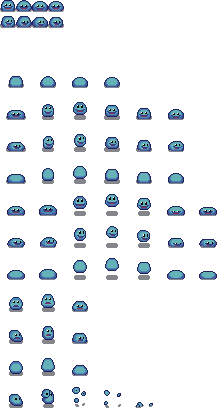
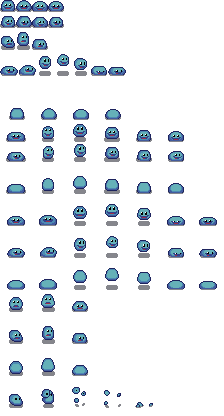
give damage slime

diff --git a/game/level/entity/slime.py b/game/level/entity/slime.py
@@ -1,6 +1,8 @@
+from game.level.attack import AttackArea
 from game.settings import *
 from game.math import points_dis
 from game.components import FollowableSprite
+from game.components.animation import AnimationEvent
 from game.level.entity import Entity
 from game.importer import import_named_animations, import_image
 
@@ -10,7 +12,7 @@ class Slimes(Enum):
 
 
 def build_slime_data(animations, start_animation_name, shadow_path, shadow_offset, attack_min_distance,
-                     attack_damage, speed, chasing_min_distance_to_change_direction):
+                     attack_damage, speed, health, chasing_min_distance_to_change_direction):
     return {
         "animations": animations,
         "start_animation_name": start_animation_name,
@@ -21,11 +23,19 @@ def build_slime_data(animations, start_animation_name, shadow_path, shadow_offse
         "attack_min_distance": attack_min_distance,
         "attack_damage": attack_damage,
         "speed": speed,
+        "health": health,
         "chasing_min_distance_to_change_direction": chasing_min_distance_to_change_direction
     }
 
 
 hash_slime_data = {}
+
+
+class SlimeAnimation(Enum):
+    IDLE = "idle"
+    WALKING = "walking"
+    ATTACKING = "attacking"
+    HURTING = "hurting"
 
 
 def get_slime_data(slime):
@@ -35,40 +45,46 @@ def get_slime_data(slime):
             hash_slime_data[slime] = build_slime_data(
                 animations=import_named_animations(
                     [
-                        (4, 1, "idle"),
-                        (4, 1, "walking"),
-                        # (4, 1, "attacking"),
+                        (4, 1, SlimeAnimation.IDLE, 4),
+                        (4, 1, SlimeAnimation.WALKING, 5),
+                        (7, 1, SlimeAnimation.ATTACKING, 6),
+                        (3, 1, SlimeAnimation.HURTING, 4),
                     ],
                     [
                         join('assets', 'characters', 'Slime', 'Slime-Idle.png'),
                         join('assets', 'characters', 'Slime', 'Slime-Walking.png'),
-                        # join('assets', 'characters', 'Slime', 'Slime-Attacking.png'),
+                        join('assets', 'characters', 'Slime', 'Slime-Attacking.png'),
+                        join('assets', 'characters', 'Slime', 'Slime-Hurting.png'),
                     ]
                 ),
-                start_animation_name="idle",
+                start_animation_name=SlimeAnimation.IDLE,
                 shadow_path=None,
                 shadow_offset=None,
-                speed=170,
+                speed=130,
+                health=5,
                 # ia
                 attack_damage=1,
                 attack_min_distance=40,
                 chasing_min_distance_to_change_direction=20,
             )
             # scale
-            hash_slime_data[slime]["animations"]["idle"].scale_frames(3)
-            hash_slime_data[slime]["animations"]["walking"].scale_frames(3)
+            hash_slime_data[slime]["animations"][SlimeAnimation.IDLE].scale_frames(3)
+            hash_slime_data[slime]["animations"][SlimeAnimation.WALKING].scale_frames(3)
+            hash_slime_data[slime]["animations"][SlimeAnimation.ATTACKING].scale_frames(3)
+            hash_slime_data[slime]["animations"][SlimeAnimation.HURTING].scale_frames(3)
     # return data
     return hash_slime_data[slime]
 
 
 class Slime(Entity):
-    def __init__(self, pos, group, collision_group, slime_data_type):
+    def __init__(self, game, pos, group, collision_group, slime_data_type):
         # target
         self.target = None
         # get slime data
         self.slime_data = get_slime_data(slime_data_type)
+        self.health = self.slime_data["health"]
         # super
-        super().__init__(pos, self.slime_data["speed"], group, collision_group, self.slime_data['animations'], self.slime_data['start_animation_name'])
+        super().__init__(game, pos, self.slime_data["speed"], group, collision_group, self.slime_data['animations'], self.slime_data['start_animation_name'])
         # shadow
         self.shadow = FollowableSprite(
             import_image(self.slime_data['shadow']['path']),
@@ -77,6 +93,30 @@ class Slime(Entity):
             offset=self.slime_data['shadow']['offset'],
             z=WorldLayers.SHADOW
         ) if self.slime_data['shadow']['path'] is not None else None
+        # attributes
+        self.attacking = False
+        # animation
+        self.animation_controller.set_listener("AnimationsHandler", self.__animations_handler)
+
+    def give_damage(self, damage):
+        # health
+        print(f"Receive damage: {damage}")
+        self.health -= damage
+        if self.health > 0:
+            self.receiving_damage = True
+        else:
+            self.kill_entity()
+
+        # attacking
+        if self.attacking:
+            self.attacking = False
+
+    def __animations_handler(self, event, animation, animation_controller):
+        if event == AnimationEvent.ANIMATION_CHANGED:
+            self.attacking = (self.animation_controller.current_animation == SlimeAnimation.ATTACKING)
+        elif event == AnimationEvent.ENDS:
+            if self.animation_controller.current_animation == SlimeAnimation.HURTING:
+                self.receiving_damage = False
 
     def _ia(self):
         self.velocity.x = 0
@@ -100,22 +140,45 @@ class Slime(Entity):
                 # attack
                 self._attack_hanlder()
 
-    def _attack_hanlder(self):
-        # TODO: start attack animation
-        # TODO: subscribe animation attack
-        # TODO: create func attack_damage and spawn AttackArea
+    def __attack_give_damage_handler(self):
+        # if self.flipped:
+        #     AttackArea(self.attack_damage(),
+        #         (self.rect.x, self.rect.y),
+        #         (-self.attack_range[0], self.attack_range[1]),
+        #         self.player_group
+        #     )
+        # else:
+        #     AttackArea(self.attack_damage(),
+        #         (self.rect.x, self.rect.y),
+        #         self.attack_range,
+        #         self.player_group
+        #     )
         pass
 
-    def update(self, delta):
-        self._ia()
+    def _attack_hanlder(self):
+        if not self.is_attacking() and not self.is_moving():
+            if self.can_attack:
+                self.attacking = True
 
+    def _animate(self, delta):
         # animation
-        if self.is_moving():
-            self.animation_controller.change("walking")
+        if self.receiving_damage:
+            self.animation_controller.change(SlimeAnimation.HURTING)
+        elif self.is_moving():
+            self.animation_controller.change(SlimeAnimation.WALKING)
         else:
-            self.animation_controller.change("idle")
+            if self.is_attacking():
+                self.animation_controller.change(SlimeAnimation.ATTACKING)
+            else:
+                self.animation_controller.change(SlimeAnimation.IDLE)
 
+        # flip
         if self.velocity.x != 0:
             self.flipped = self.velocity.x < 0
 
+        super()._animate(delta)
+
+    def update(self, delta):
+        if not self.receiving_damage:
+            self._ia()
         super().update(delta)

diff --git a/game/level/entity/entity.py b/game/level/entity/entity.py
@@ -1,9 +1,13 @@
 from game.components import AnimationController, Sprite
 from game.settings import *
+import uuid
 
 
 class Entity(Sprite):
-    def __init__(self, pos, speed, group, collision_group, animations, start_animation_name):
+    def __init__(self, game, pos, speed, group, collision_group, animations, start_animation_name):
+        self.game = game
+        self.uuid = uuid.uuid4()
+
         # animations
         self.animation_controller = AnimationController(animations, start_animation_name)
         self.animation_controller.play()
@@ -21,9 +25,17 @@ class Entity(Sprite):
         # attributes
         self.speed = speed
         self.velocity = pygame.math.Vector2(0, 0)
+        self.damage_delay = 1
         # attacking
         self.attacking = False
         self.can_attack = True
+        # damage
+        self.receiving_damage = False
+        self.removed = False
+
+    def kill_entity(self):
+        self.game.level.kill_entity(self)
+        self.kill()
 
     def is_attacking(self):
         return self.attacking
@@ -33,7 +45,7 @@ class Entity(Sprite):
         self.image = pygame.transform.flip(self.animation_controller.frame(), self.flipped, False)
 
     def give_damage(self, damage):
-        print(f"Receive damage: {damage}")
+        print(f"[NOT IMPLEMENTED] Receive damage: {damage}")
 
     def is_moving(self):
         return self.velocity.x != 0 or self.velocity.y != 0
@@ -70,6 +82,7 @@ class Entity(Sprite):
         self._collisions(Axis.VERTICAL)
 
     def update(self, delta):
-        self._move(delta)
+        if not self.receiving_damage:
+            self._move(delta)
         self.y_sort = self.rect.bottom
         self._animate(delta)

diff --git a/game/components/animation.py b/game/components/animation.py
@@ -10,7 +10,7 @@ class AnimationEvent(Enum):
 
 
 class Animation:
-    def __init__(self, frames, speed=None):
+    def __init__(self, frames, speed=4):
         self.index = 0
         self.frames = frames
         self.speed = speed
@@ -59,14 +59,14 @@ class Animation:
 class AnimationController:
     _ANIMATION_LISTENER_KEY = "__animation_controller__"
 
-    def __init__(self, animations, start_animation_name, speed=4, stopped=True):
+    def __init__(self, animations, start_animation_name, stopped=True):
         # animations
         self.animations = animations
         # listeners
         for anim in animations:
             animations[anim].set_listener(AnimationController._ANIMATION_LISTENER_KEY, self.__listener_handler)
         # configs
-        self.speed = speed
+        self.speed = 0
         self.current_animation = start_animation_name
         self._stopped = stopped
         self._animation_delta_frame = 0
@@ -113,10 +113,7 @@ class AnimationController:
     def update(self, delta):
         if self._stopped:
             return
-        animation_speed = self.animation().speed
-        if animation_speed is None:
-            animation_speed = self.speed
-        self._animation_delta_frame += animation_speed * delta
+        self._animation_delta_frame += self.animation().speed * delta
         if self._animation_delta_frame > 1:
             self._animation_delta_frame = 0
             self.next_frame()

diff --git a/game/level/entity/player.py b/game/level/entity/player.py
@@ -69,12 +69,11 @@ def get_player_data(player_key):
 
 class Player(Entity):
     def __init__(self, game, pos, group, collision_group, enemy_group, player_data_type):
-        self.game = game
         self.enemy_group = enemy_group
         # get data
         self.player_data = get_player_data(player_data_type)
         # super
-        super().__init__(pos, self.player_data["speed"], group, collision_group, self.player_data['animations'],
+        super().__init__(game, pos, self.player_data["speed"], group, collision_group, self.player_data['animations'],
                          self.player_data['start_animation_name'])
         # attack
         self.base_attack_damage = self.player_data['base_attack_damage']
@@ -152,9 +151,7 @@ class Player(Entity):
                 self.enemy_group
             )
 
-    def update(self, delta):
-        self._input()
-
+    def _animate(self, delta):
         # animation
         if self.is_moving():
             self.animation_controller.change("walking")
@@ -164,7 +161,12 @@ class Player(Entity):
             else:
                 self.animation_controller.change("idle")
 
+        # flip
         if self.velocity.x != 0:
             self.flipped = self.velocity.x < 0
 
+        super()._animate(delta)
+
+    def update(self, delta):
+        self._input()
         super().update(delta)

diff --git a/game/importer.py b/game/importer.py
@@ -38,19 +38,21 @@ def import_frames(cols, rows, path):
     return frames
 
 
-def import_animation(cols, rows, path):
-    return Animation(import_frames(cols, rows, path))
+def import_animation(cols, rows, path, speed):
+    if speed is None:
+        speed = 4
+    return Animation(import_frames(cols, rows, path), speed=speed)
 
 
 def import_animations(animations_config, paths):
     animations = []
     for i in range(len(animations_config)):
-        animations.append(import_animation(animations_config[i][0], animations_config[i][1], paths[i]))
+        animations.append(import_animation(animations_config[i][0], animations_config[i][1], paths[i], animations_config[2] if len(animations_config) > 2 else None))
     return animations
 
 
 def import_named_animations(animations_config, paths):
     animations = {}
     for i in range(len(animations_config)):
-        animations[animations_config[i][2]] = import_animation(animations_config[i][0], animations_config[i][1], paths[i])
+        animations[animations_config[i][2]] = import_animation(animations_config[i][0], animations_config[i][1], paths[i], animations_config[i][3] if len(animations_config[i]) > 3 else None)
     return animations

diff --git a/game/level/map_level.py b/game/level/map_level.py
@@ -43,6 +43,12 @@ class MapLevel(Level):
         if self.pause_screen is None:
             raise Exception("Pause screen not loaded!")
 
+    def kill_entity(self, entity):
+        for enemy in self.enemies:
+            if enemy.uuid == entity.uuid:
+                self.enemies.remove(enemy)
+                return
+
     def load_pause_screen(self):
         self.pause_screen = PauseScreen(self)
 

diff --git a/game/level/monster_level.py b/game/level/monster_level.py
@@ -18,6 +18,7 @@ class MonsterLevel(MapLevel):
         if self.TEMP:
             self.TEMP = False
             enemy = Slime(
+                self.game,
                 # (random.randint(200, 2000), random.randint(200, 1800)),
                 (600, 600),
                 [self.render_sprites, self.enemy_group],

diff --git a/game/level/level.py b/game/level/level.py
@@ -2,5 +2,8 @@ class Level:
     def __init__(self, game):
         self.game = game
 
+    def kill_entity(self, entity):
+        pass
+
     def run(self, delta):
         pass
